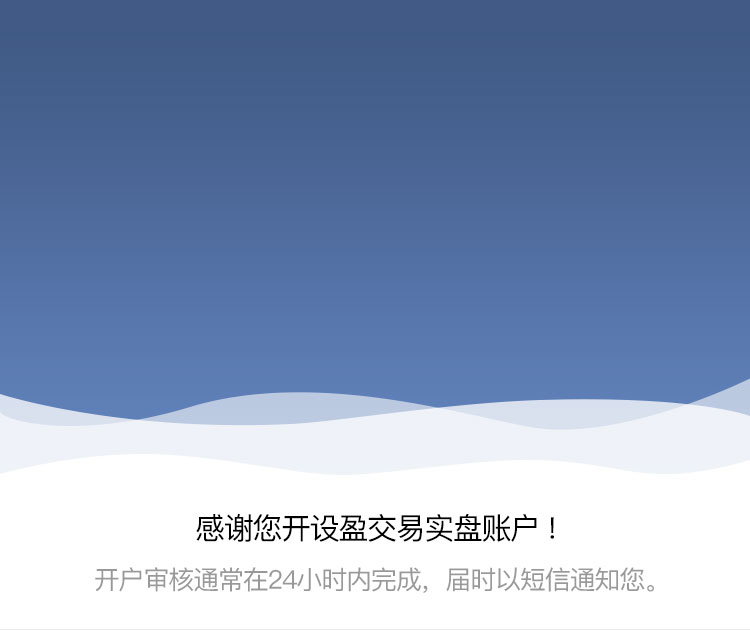
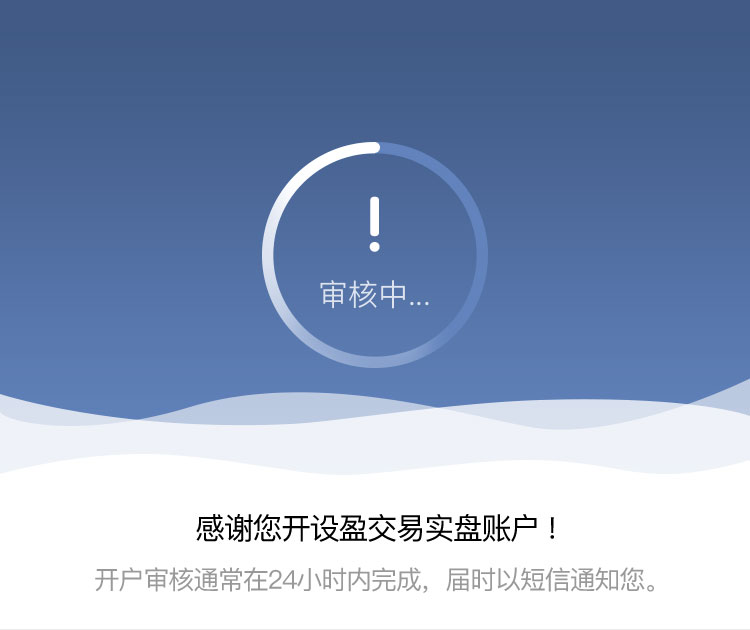
Update review status page layout.

diff --git a/js/view/openAccount/OAReviewStatusPage.js b/js/view/openAccount/OAReviewStatusPage.js
@@ -60,7 +60,7 @@ var OAReviewStatusPage = React.createClass({
 				<ScrollView style={{flex:1}}>					
 					<View style={{width:width, height:topImageHeight}}>
 						<Image style={{width:width, height:topImageHeight}} source={require('../../../images/openAccountReview.jpg')}/>
-						<View style={{position: 'absolute', 
+						{/* <View style={{position: 'absolute', 
 							bottom:spinnerPaddingBottom, 
 							left: 0, right: 0, 
 							width:width, 
@@ -78,7 +78,7 @@ var OAReviewStatusPage = React.createClass({
 								<Text style={{color:'white', backgroundColor:'transparent', fontSize:30}}>!</Text>
 								<Text style={[{color:'white', backgroundColor:'transparent'}]}>审核中...</Text>
 							</View>
-						</View>
+						</View> */}
 					</View>
 					<OpenAccountHintBlock/>
 			 	</ScrollView>
